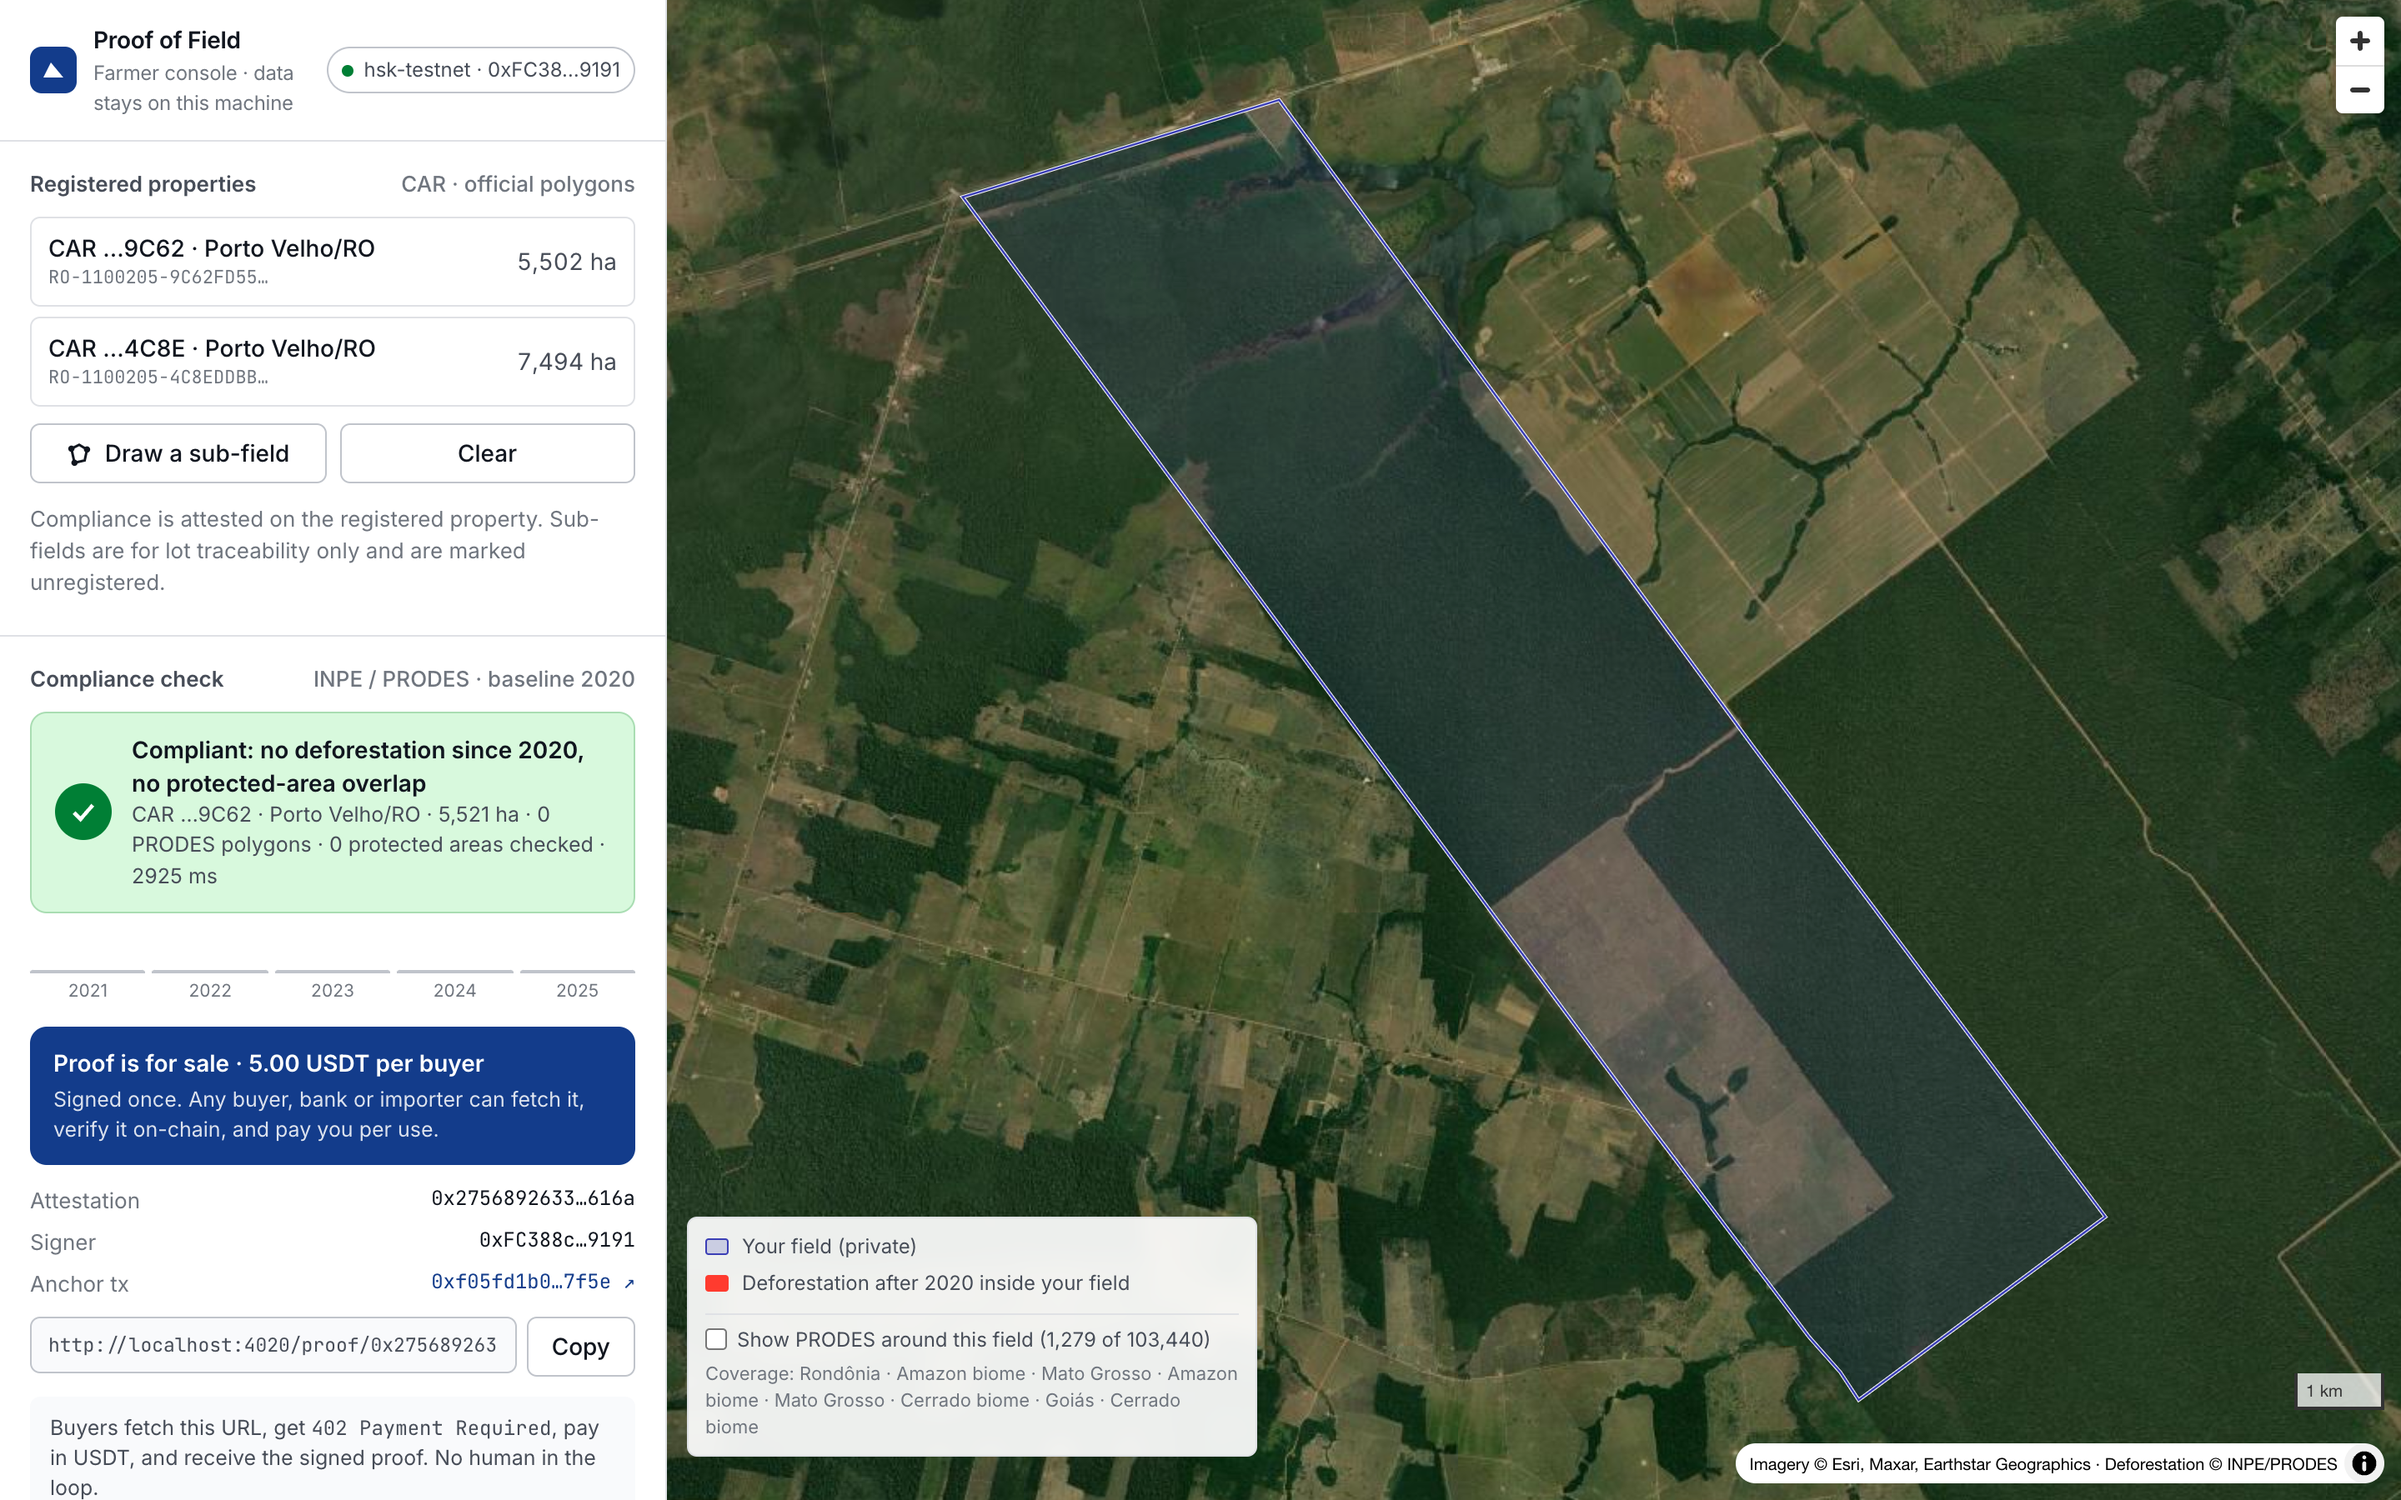
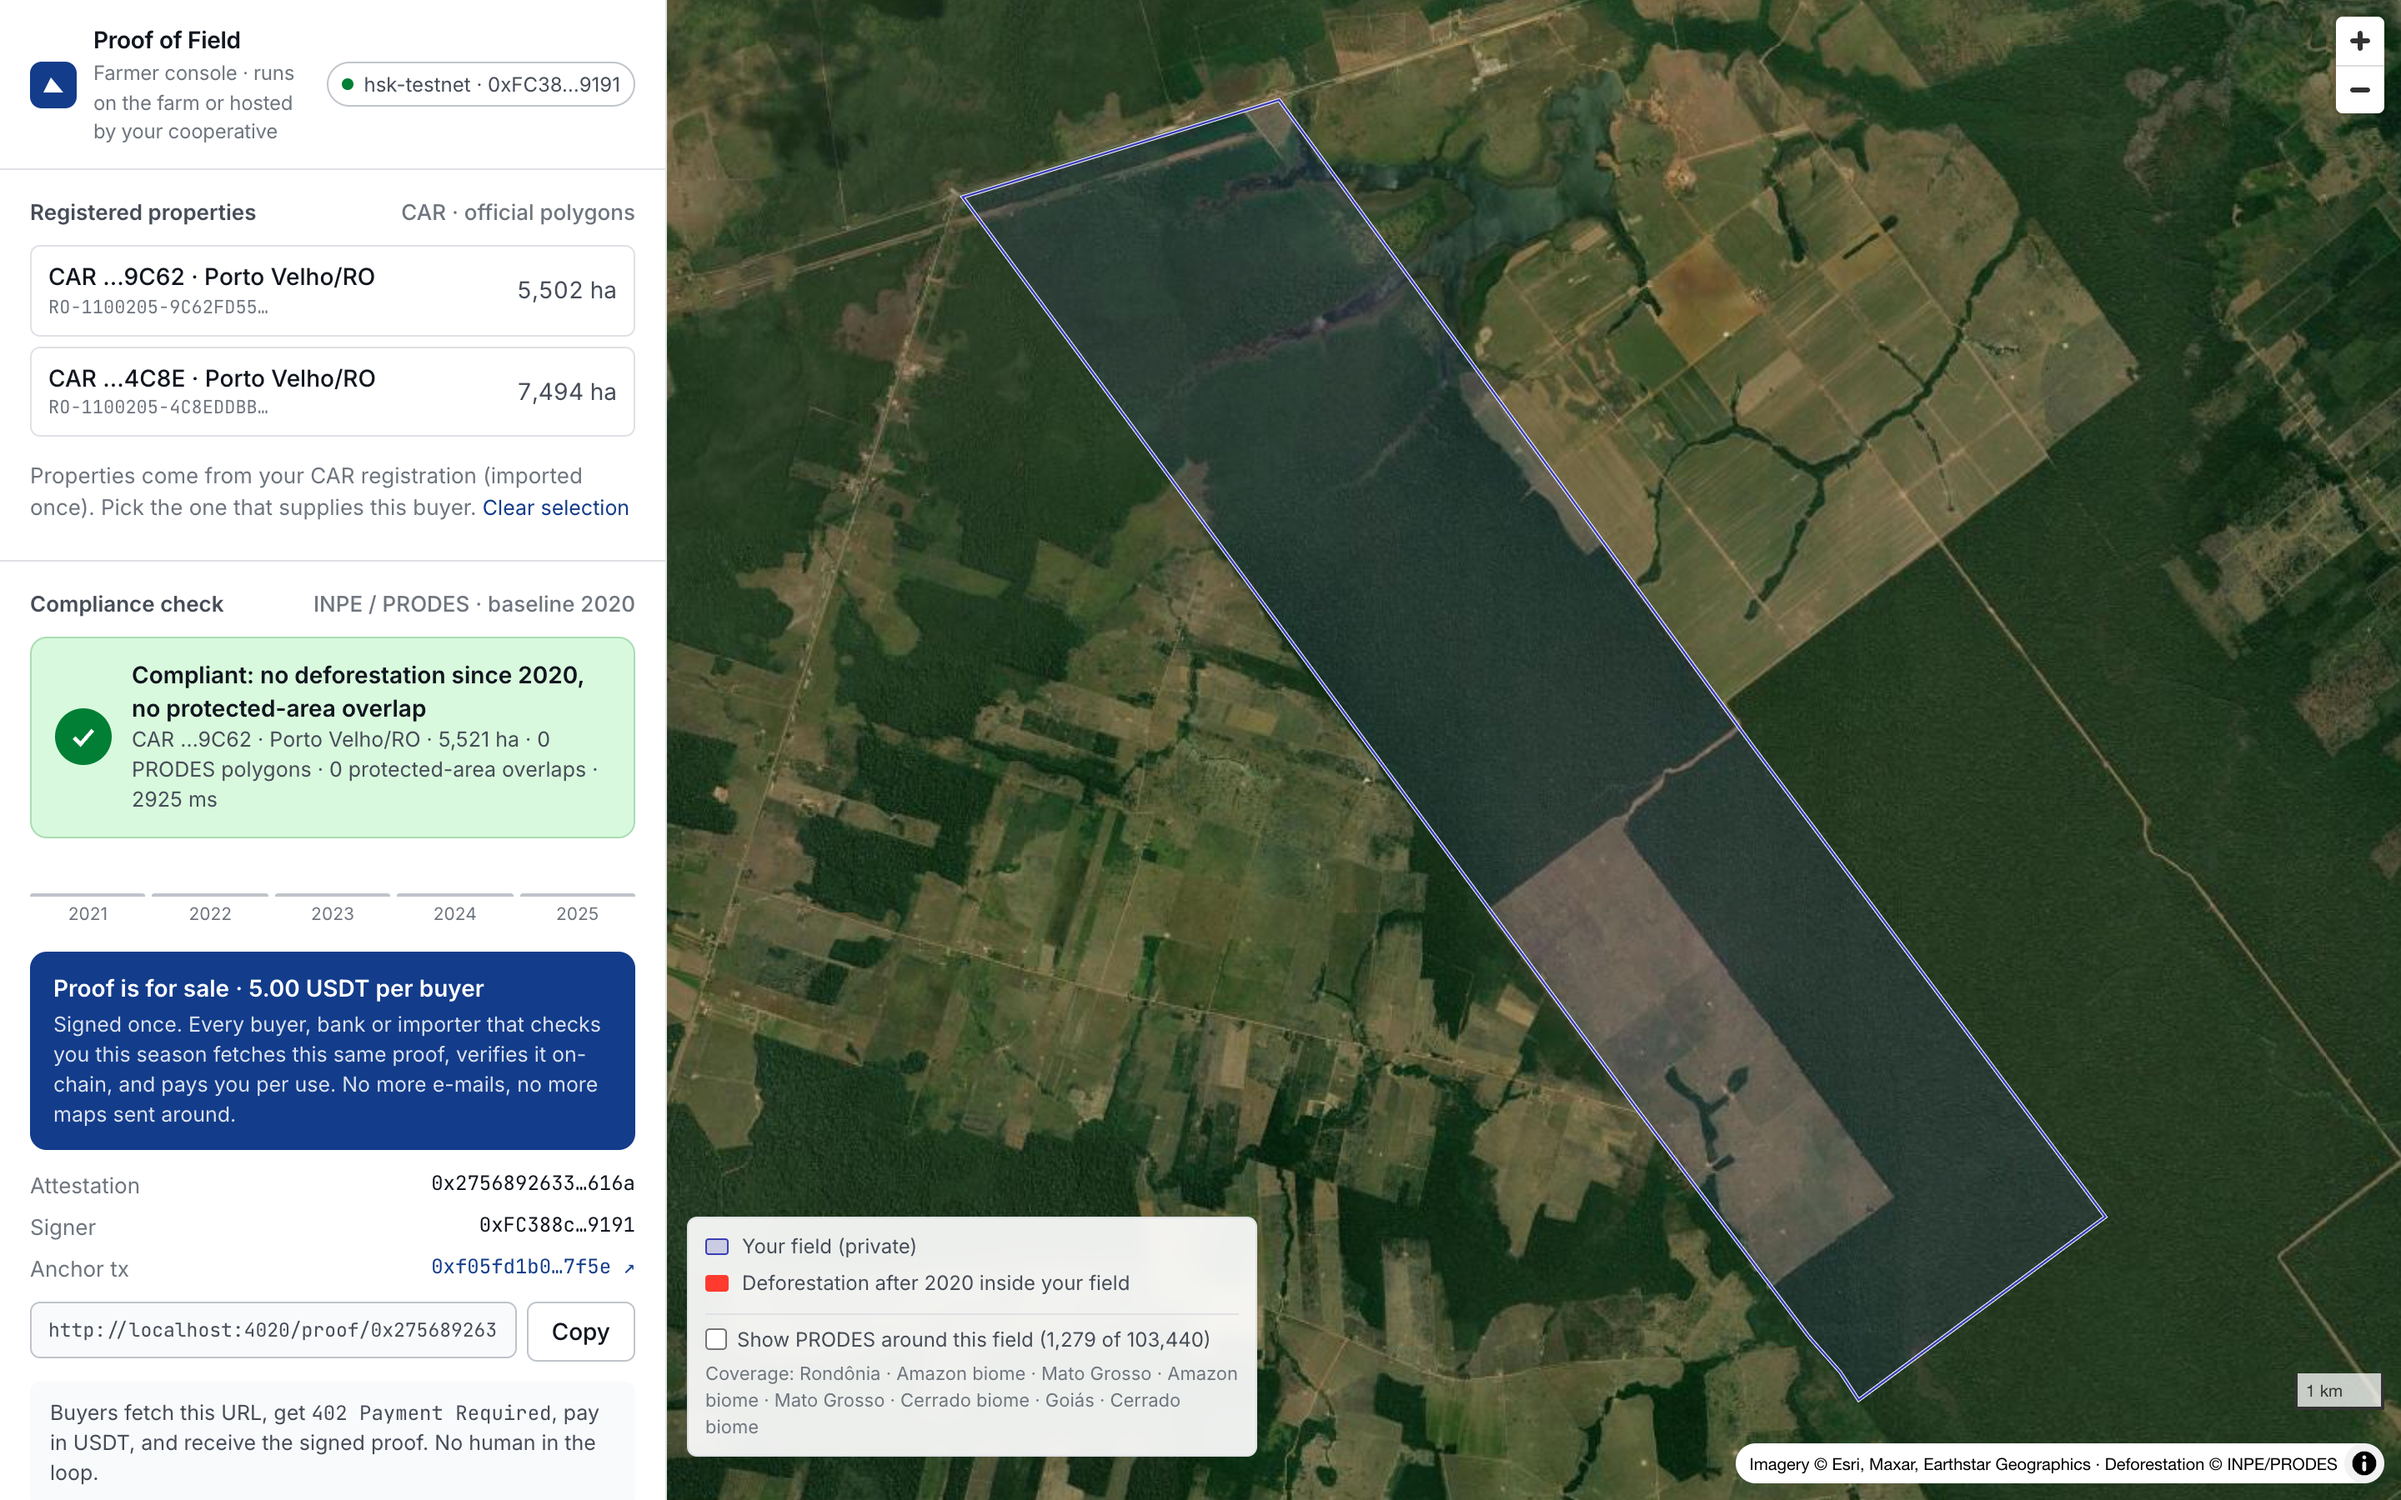
Flow review: farmer picks CAR property and signs once (no drawing), co-op hosting, real-world Q&A

diff --git a/apps/web/src/App.tsx b/apps/web/src/App.tsx
@@ -93,7 +93,7 @@ export function App() {
       <aside className="panel">
         <header className="panel-head">
           <div className="logo" aria-hidden><svg viewBox="0 0 16 16" fill="none"><path d="M2 12.5 6.5 3.5 14 12.5Z" fill="#fff" /></svg></div>
-          <div className="brand">Proof of Field<small>Farmer console · data stays on this machine</small></div>
+          <div className="brand">Proof of Field<small>Farmer console · runs on the farm or hosted by your cooperative</small></div>
           <div className={`chip ${offline ? 'off' : ''}`} title={info ? `${info.farmer}\nregistry ${info.registry}` : 'farmer agent offline'}>
             <span className="dot" />{offline ? 'agent offline' : info ? `${info.network} · ${short(info.farmer, 4)}` : '…'}
           </div>
@@ -112,14 +112,7 @@ export function App() {
                 ))}
               </div>
             )}
-            <div className="btn-row" style={{ marginTop: 10 }}>
-              <button className="btn btn-secondary" aria-pressed={drawing} onClick={() => { reset(); setDrawing((d) => !d); }}>
-                <svg width="15" height="15" viewBox="0 0 16 16" fill="none" stroke="currentColor" strokeWidth="1.6"><path d="M3 4.5 8 2l5 3-1.5 7L5 13.5z" /><circle cx="3" cy="4.5" r="1.2" fill="currentColor" /><circle cx="13" cy="5" r="1.2" fill="currentColor" /><circle cx="5" cy="13.5" r="1.2" fill="currentColor" /></svg>
-                {drawing ? 'Drawing… (Esc to cancel)' : 'Draw a sub-field'}
-              </button>
-              {field && <button className="btn btn-secondary" onClick={reset}>Clear</button>}
-            </div>
-            <div className="empty" style={{ marginTop: 6 }}>Compliance is attested on the registered property. Sub-fields are for lot traceability only and are marked unregistered.</div>
+            <div className="empty" style={{ marginTop: 8 }}>Properties come from your CAR registration (imported once). Pick the one that supplies this buyer. {field && <button className="linkbtn" onClick={reset}>Clear selection</button>}</div>
           </section>
 
           {(phase !== 'idle') && (
@@ -129,7 +122,7 @@ export function App() {
               {report && phase !== 'checking' && <Verdict report={report} label={label} />}
               {phase === 'checked' && report?.coverage?.covered !== false && (
                 <>
-                  <button className="btn btn-primary btn-block" style={{ marginTop: 14 }} onClick={attest}>{report && (report.compliant ?? report.deforestedHa <= 0) ? 'Sign once & put the proof up for sale' : 'Sign attestation anyway (non-compliant)'}</button>
+                  <button className="btn btn-primary btn-block" style={{ marginTop: 14 }} onClick={attest}>{report && (report.compliant ?? report.deforestedHa <= 0) ? 'Sign once & put the proof up for sale' : 'Sign & publish anyway (buyers will see the non-compliance)'}</button>
                   <div className="note">
                     <svg width="14" height="14" viewBox="0 0 16 16" fill="none" stroke="currentColor" strokeWidth="1.5"><rect x="3" y="7" width="10" height="7" rx="1.5" /><path d="M5.5 7V5a2.5 2.5 0 0 1 5 0v2" /></svg>
                     <span>Only a hash of this polygon and the verdict go on-chain. The geometry never leaves the farmer agent.</span>
@@ -146,7 +139,7 @@ export function App() {
                 <>
                   <div className="forsale">
                     <div className="forsale-title">Proof is for sale · {usdt(result.priceUnits)} per buyer</div>
-                    <div className="forsale-sub">Signed once. Any buyer, bank or importer can fetch it, verify it on-chain, and pay you per use.</div>
+                    <div className="forsale-sub">Signed once. Every buyer, bank or importer that checks you this season fetches this same proof, verifies it on-chain, and pays you per use. No more e-mails, no more maps sent around.</div>
                   </div>
                   <dl className="kv" style={{ marginTop: 12 }}>
                     <dt>Attestation</dt><dd className="mono" title={result.hash}>{short(result.hash, 10)}</dd>

diff --git a/docs/slides/index.html b/docs/slides/index.html
@@ -121,8 +121,8 @@
   <div class="tl">
     <div class="lbl ok">Now</div>
     <div class="chain">
-      <div class="node ok"><i>farmer's machine</i><b>Farmer agent checks</b><p>Intersects the property with INPE/PRODES, indigenous lands and conservation units, in seconds. Map never leaves the farm.</p></div>
-      <div class="node ok"><i>farmer's machine</i><b>Signs &amp; anchors</b><p>EIP-712 attestation. Only its hash goes on-chain. Proof is now for sale at a price the farmer sets.</p></div>
+      <div class="node ok"><i>farm, or its cooperative</i><b>Farmer picks the property</b><p>From their CAR registration. The agent checks it against INPE/PRODES, indigenous lands and conservation units, in seconds. Map never leaves the farm.</p></div>
+      <div class="node ok"><i>farm, or its cooperative</i><b>Signs once</b><p>A declaration of origin with the evidence attached (EIP-712). Only its hash goes on-chain. The proof is now for sale to every buyer, this season.</p></div>
       <div class="node ai"><i>trader's machine · before contracting</i><b>AI buyer agent decides</b><p>One sentence from compliance. Lists the suppliers' proofs, checks its budget, buys what fits the rule, refuses what doesn't.</p></div>
       <div class="node ai"><i>trader's machine · reused each season &amp; at export</i><b>Pays, verifies, reports</b><p>HTTP 402 → USDT → proof. Verifies signature + registry itself. Writes the dossier; the export file reuses the same proofs.</p></div>
     </div>

diff --git a/apps/web/src/styles.css b/apps/web/src/styles.css
@@ -152,3 +152,6 @@ code, .mono { font-family: var(--mono); font-size: 12px; }
 .forsale { margin-top: 14px; padding: 12px 14px; border-radius: var(--r-md); background: var(--primary); color: #fff; }
 .forsale-title { font-weight: 600; }
 .forsale-sub { font-size: 12.5px; opacity: .85; margin-top: 3px; }
+
+.linkbtn { background: none; border: 0; padding: 0; color: var(--primary); cursor: pointer; font-size: 12.5px; }
+.linkbtn:hover { text-decoration: underline; }

diff --git a/docs/PITCH.md b/docs/PITCH.md
@@ -66,6 +66,10 @@ Fallback if HSK is down: run everything with `NETWORK=anvil` (identical, no expl
 - **"What if the farmer lies in other ways?"** He can't change the INPE data, and he can't change the polygon without changing the hash. What he could do is sign with a key that isn't the property owner's. Binding the farmer key to the CAR owner (a KYC'd attestation from the registry or a bank) is the natural next step.
 - **"Is 5 USDT a real price? Will traders really pay farmers?"** Today traders pay a due-diligence vendor per farm and the farmer works for free. We are not selling "traders pay farmers" as the reason to adopt; the reason is a portable proof that clears a shipment in minutes and that banks and importers accept without redoing. The payment is the mechanism that lets two programs transact; who pays and how much is a business decision. Some traders already pay premiums for verified origin, so it is not alien to the sector.
 - **"Don't traders verify before buying, not after?"** Yes, and that's when the agent runs: at supplier onboarding, before any contract, and again each season because INPE's map changes yearly. The export dossier then reuses the same proofs; nobody is consulted again. That's what "portable" buys you: one signature, three moments of use.
+- **"What exactly does the farmer sign?"** A declaration of origin with the evidence attached: "this registered property is my supply source, and on this date it shows X ha deforested and Y ha in protected areas according to INPE, FUNAI and ICMBio." That is the supplier declaration EUDR already requires, signed once instead of e-mailed to every buyer.
+- **"Farmers won't run software."** Large farms will; small ones won't. The farmer agent can be hosted by the cooperative for hundreds of members, with the farmer only authorizing from a phone. That's why cooperatives are first in the adoption path.
+- **"Farmers don't want USDT."** Correct. The mechanism is the same with a BRL stablecoin or an automatic off-ramp; we used a mock USDT because that's what the testnet has. Not solved today, and I won't pretend it is.
+- **"How does the buyer find a supplier's agent?"** At onboarding the supplier registers the agent's address, the way they register a bank account today. In the demo it's a list; publishing it in the registry is a small next step.
 - **"What does the buyer side look like?"** One text box. The compliance desk types the instruction, watches the agent's decisions stream in, and gets the dossier rendered underneath. That's the buyer desk you saw; in production it lives inside the tool they already use.
 - **"Who adopts first?"** Cooperatives: one compliance desk answering for hundreds of member farms to every buyer, every season. Then banks and insurers, who need the proof to lend and have no field team. Traders last, once proofs already circulate among their suppliers.
 - **"Only deforestation?"** No: the attestation is a claim against official layers. Today: PRODES deforestation, FUNAI indigenous lands, ICMBio/MMA conservation units (strict-protection blocks, sustainable-use flags). Next: DETER real-time alerts, IBAMA embargoes; then non-geographic lists (soy moratorium, slave-labour list) once the wallet is bound to a CPF/CNPJ.
